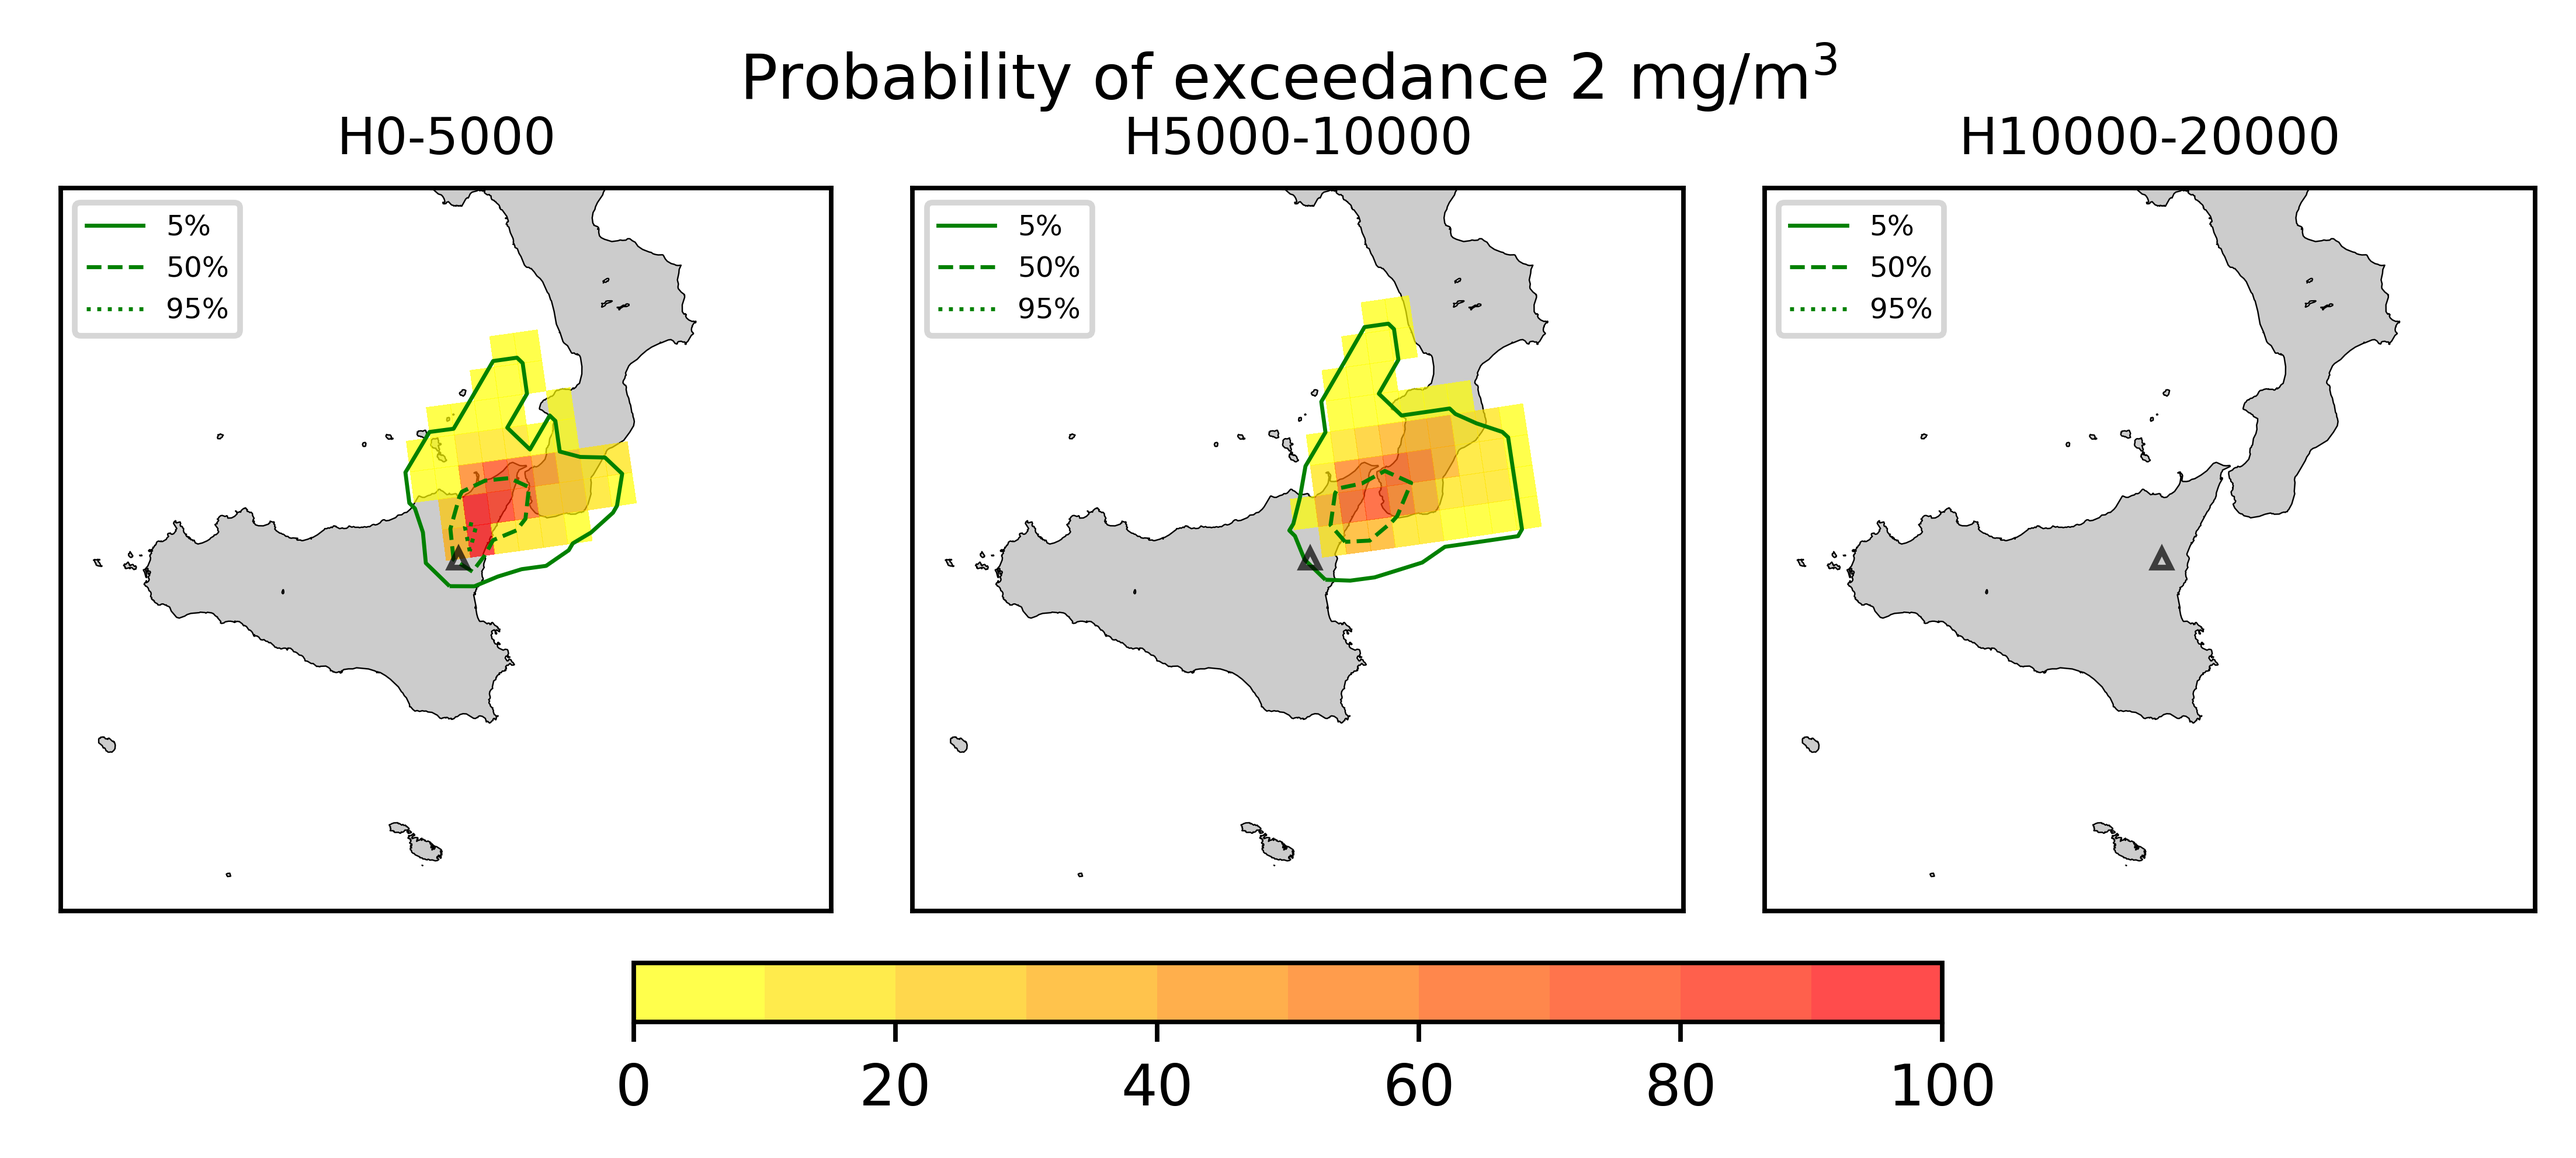
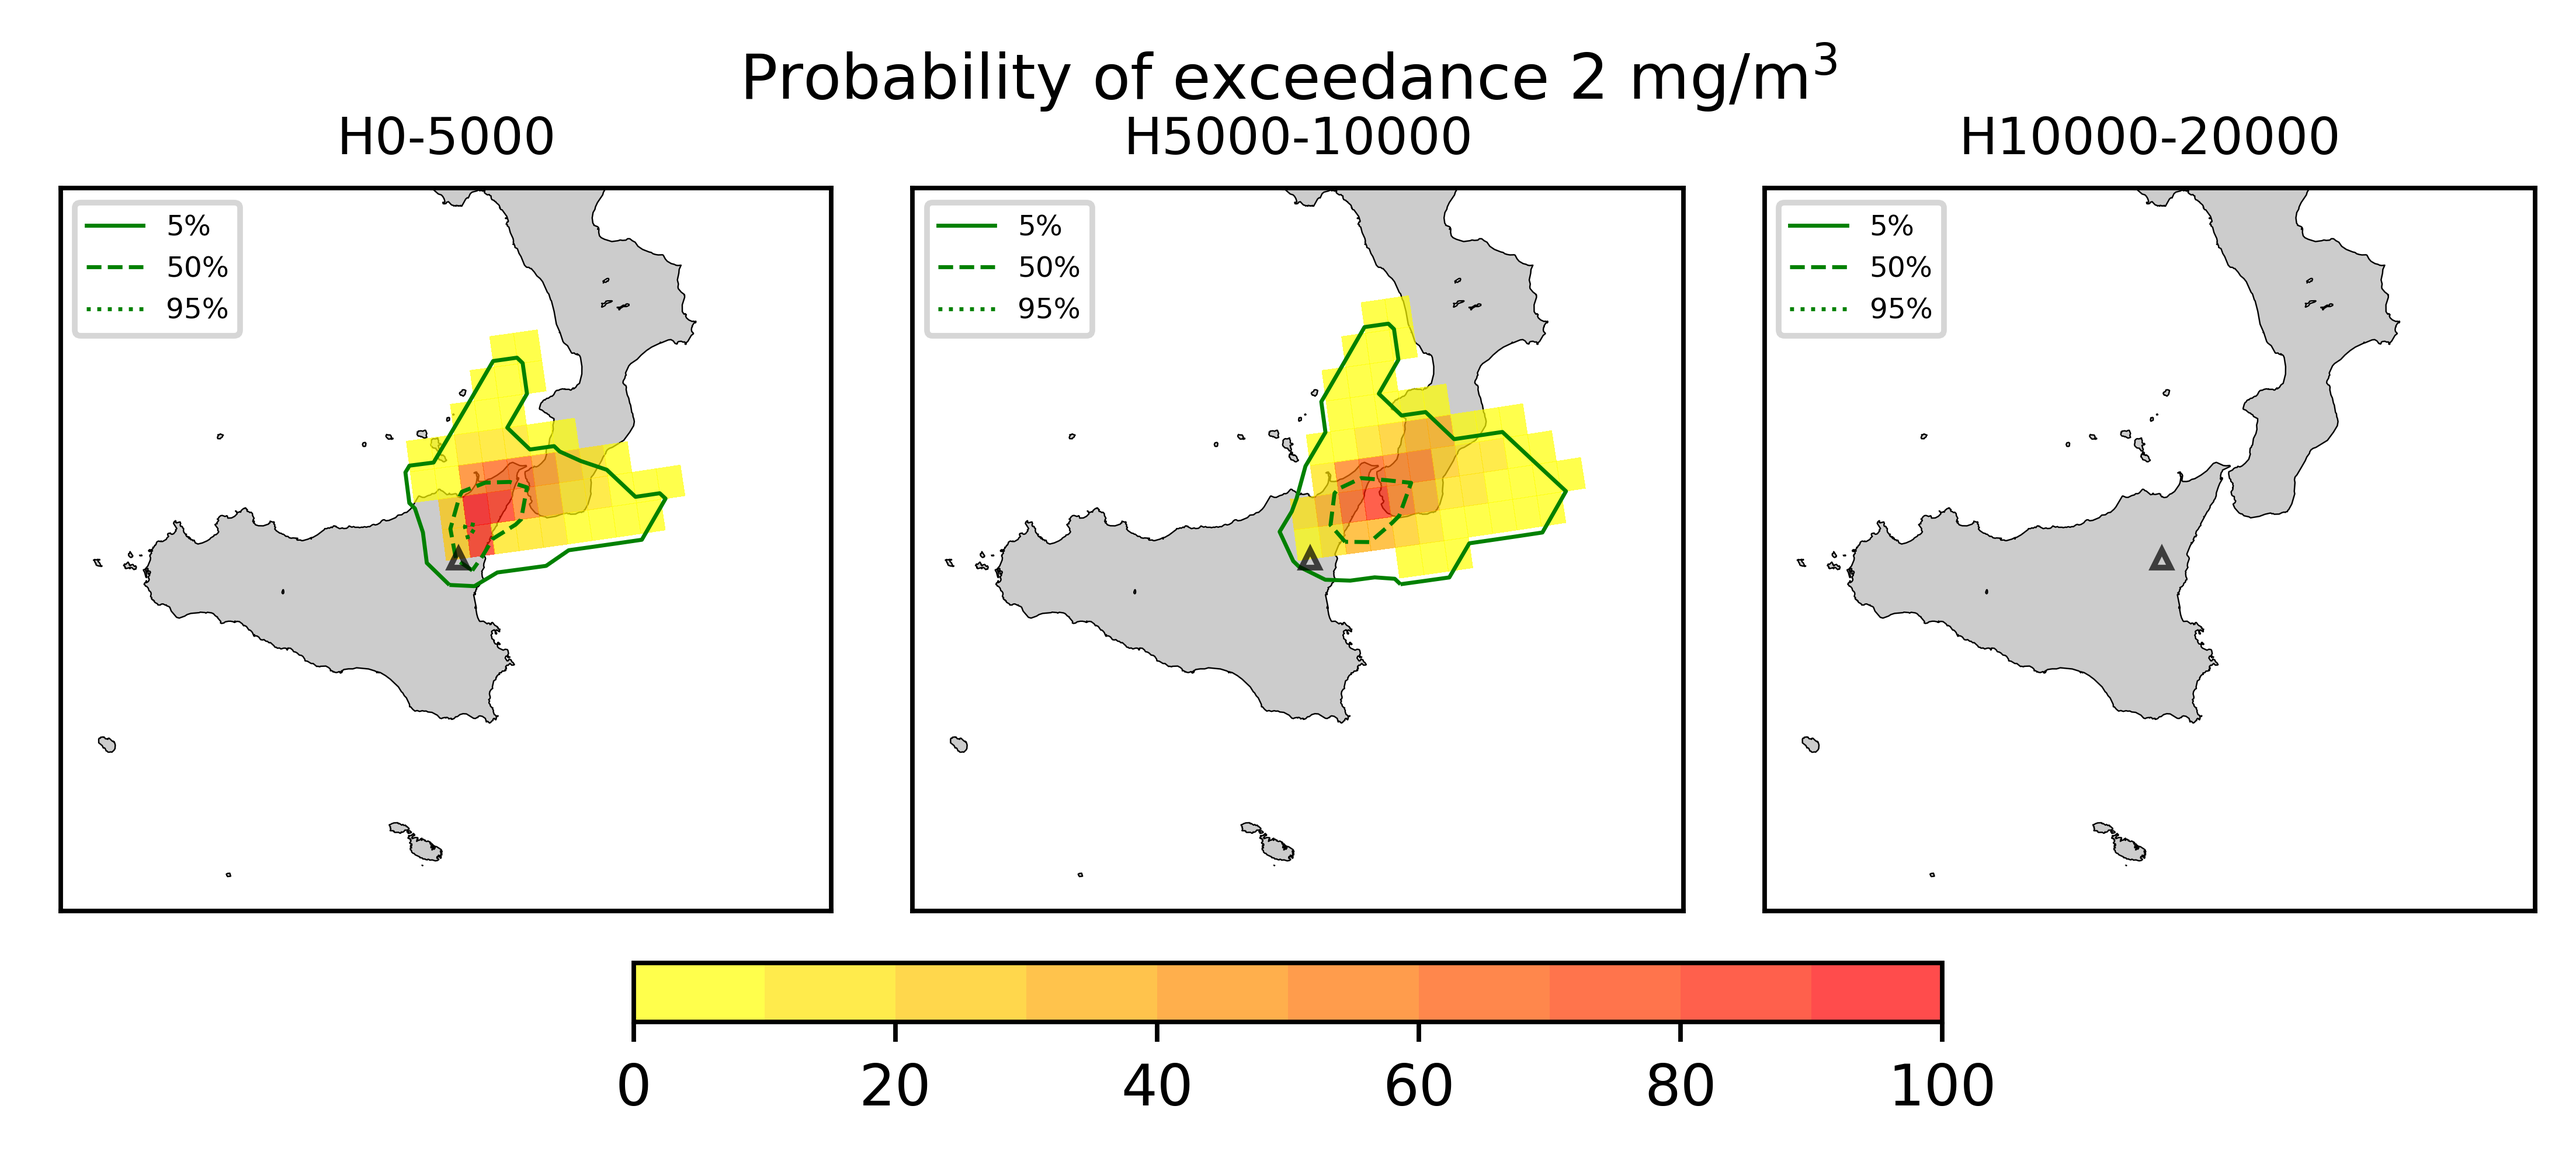
upload results

diff --git a/FORECAST_RESULTS/20210304_0228Z/README.md b/FORECAST_RESULTS/20210304_0228Z/README.md
@@ -27,6 +27,7 @@ Contents
 	* [Forecast at 2021-03-04 20:20 Z - Terminated Erupion from Orange VONA](#forecast-at-2021-03-04-2020-z---terminated-erupion-from-orange-vona)
 	* [Forecast at 2021-03-04 11:20 Z - Terminated Erupion from Orange VONA](#forecast-at-2021-03-04-1120-z---terminated-erupion-from-orange-vona)
 	* [Forecast at 2021-03-04 11:20 Z from ORANGE VONA issued at 20210304_0817Z](#forecast-at-2021-03-04-1120-z-from-orange-vona-issued-at-20210304_0817z)
+	* [Forecast at 2021-03-04 11:20 Z from ORANGE VONA issued at 20210304_0817Z](#forecast-at-2021-03-04-1120-z-from-orange-vona-issued-at-20210304_0817z)
 
 # Forecast products
 
@@ -1279,6 +1280,66 @@ Contents
 |Nizza (15)|0.00e+00|6.78e-04|1.92e-01|
 |Scaletta Zanclea (16)|0.00e+00|7.85e-05|9.00e-02|
 |Alì (17)|0.00e+00|3.58e-04|1.59e-01|
+  
+
+### Atmosphere 2021-03-04 11:20 Z
+  
+![](./figures/probability_air_2021_03_04_1120_grid_2_conclev_1_1001.png)
+## Forecast at 2021-03-04 11:20 Z from ORANGE VONA issued at 20210304_0817Z
+  
+
+|Eruption start [Z]|Eruption end [Z]|Forecast time [Z]|Column height asl [m]|
+| :--- | :--- | :--- | :--- |
+|2021-03-04 02:30:00|2021-03-04 10:20:00|2021-03-04 11:20:00|11000.0 ± 500 - from VONA|
+  
+  
+
+|Percentile|MER [kg/s¹]|Mass air [kg]|Mass air nested dom. [kg]|Mass grd [kg]|Mass grd nested dom. [kg]|
+| :--- | :--- | :--- | :--- | :--- | :--- |
+|5th|2.88e+05|2.02e+09|1.42e+09|1.13e+07|1.13e+07|
+|50th|8.06e+05|5.31e+09|2.30e+09|4.20e+08|4.19e+08|
+|95th|2.85e+06|1.46e+10|4.14e+09|2.66e+09|2.53e+09|
+  
+
+### Ground Nested Domain 2021-03-04 11:20 Z
+  
+![](./figures/probability_grd_2021_03_04_1120_grid_1_1001.png)  
+  
+  
+  
+  
+  
+  
+  
+  
+  
+  
+  
+  
+  
+  
+  
+  
+
+|Location|Ground load [kg/m²] 5th perc|Ground load [kg/m²] 50th perc|Ground load [kg/m²] 95th perc|
+| :--- | :--- | :--- | :--- |
+|Piano Provenzana (1)|5.31e-02|1.26e+00|6.97e+00|
+|Bivio Provenzana-Linguaglossa (2)|1.06e-02|1.38e+00|9.05e+00|
+|Cunetta pre-Citelli (3)|6.16e-03|1.10e+00|9.41e+00|
+|Chalet (4)|1.18e-02|1.44e+00|6.78e+00|
+|Ragabo (5)|8.70e-03|1.48e+00|6.84e+00|
+|Scilio (6)|2.28e-03|5.27e-01|5.09e+00|
+|Gambino vini (7)|1.38e-03|5.02e-01|5.98e+00|
+|StazioneFce Linguaglossa (8)|4.05e-03|5.89e-01|3.95e+00|
+|Linguaglossa Via Olivio Sozzi (9)|7.09e-03|5.58e-01|3.70e+00|
+|Cim.Linguaglossa (10)|1.30e-03|4.00e-01|4.44e+00|
+|Gole Bar (11)|2.64e-04|1.91e-01|1.59e+00|
+|Francavilla - Orange (12)|6.20e-04|1.06e-01|1.07e+00|
+|Roccalumera1 (13)|0.00e+00|5.55e-04|2.62e-01|
+|Roccalumera2 (14)|0.00e+00|2.31e-04|2.16e-01|
+|Nizza (15)|0.00e+00|1.96e-04|1.46e-01|
+|Scaletta Zanclea (16)|0.00e+00|5.27e-07|4.88e-02|
+|Alì (17)|0.00e+00|2.28e-04|8.50e-02|
   
 
 ### Atmosphere 2021-03-04 11:20 Z
